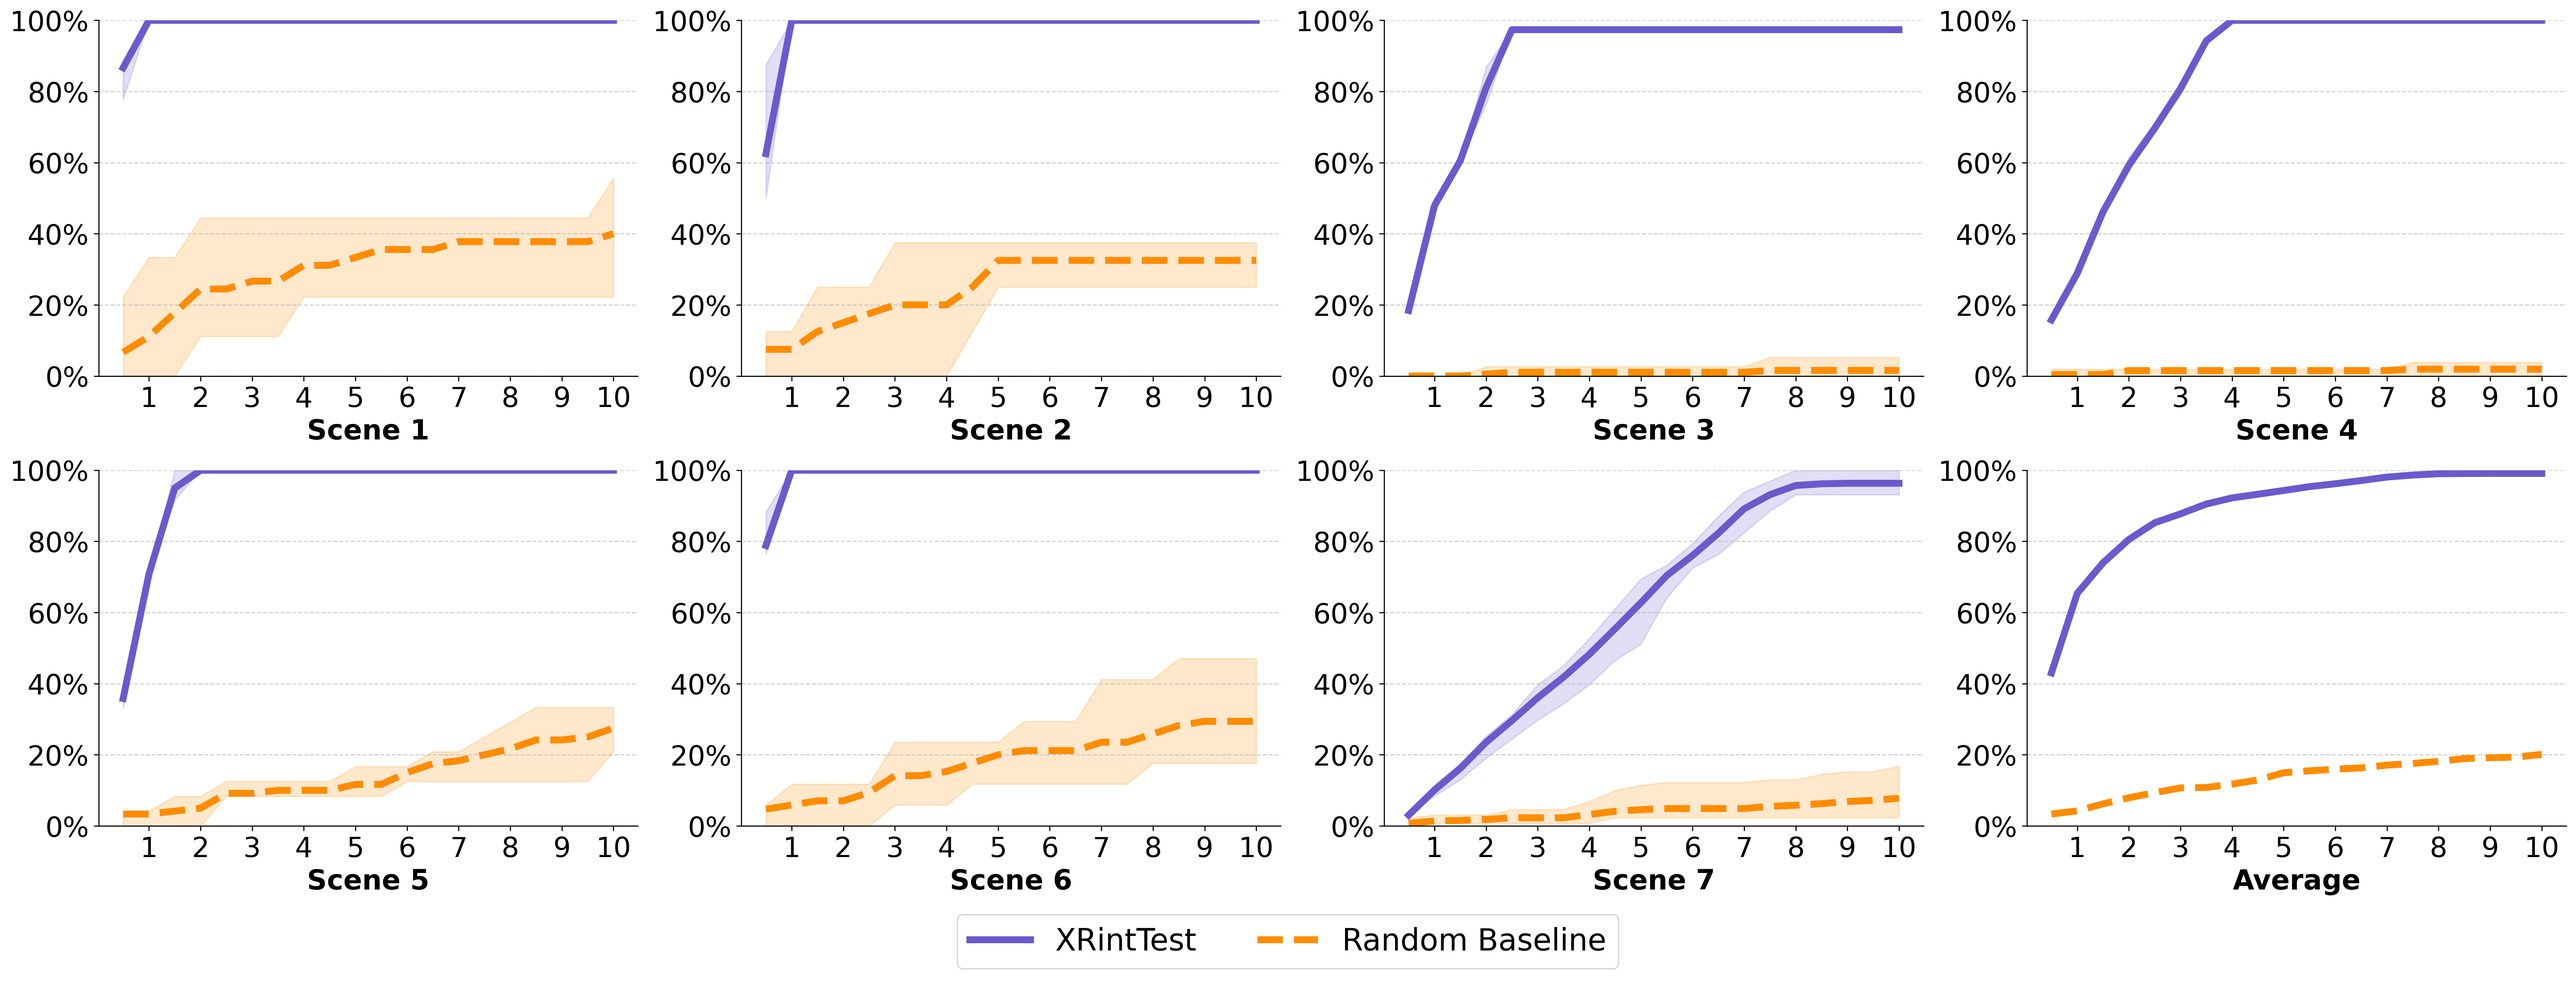
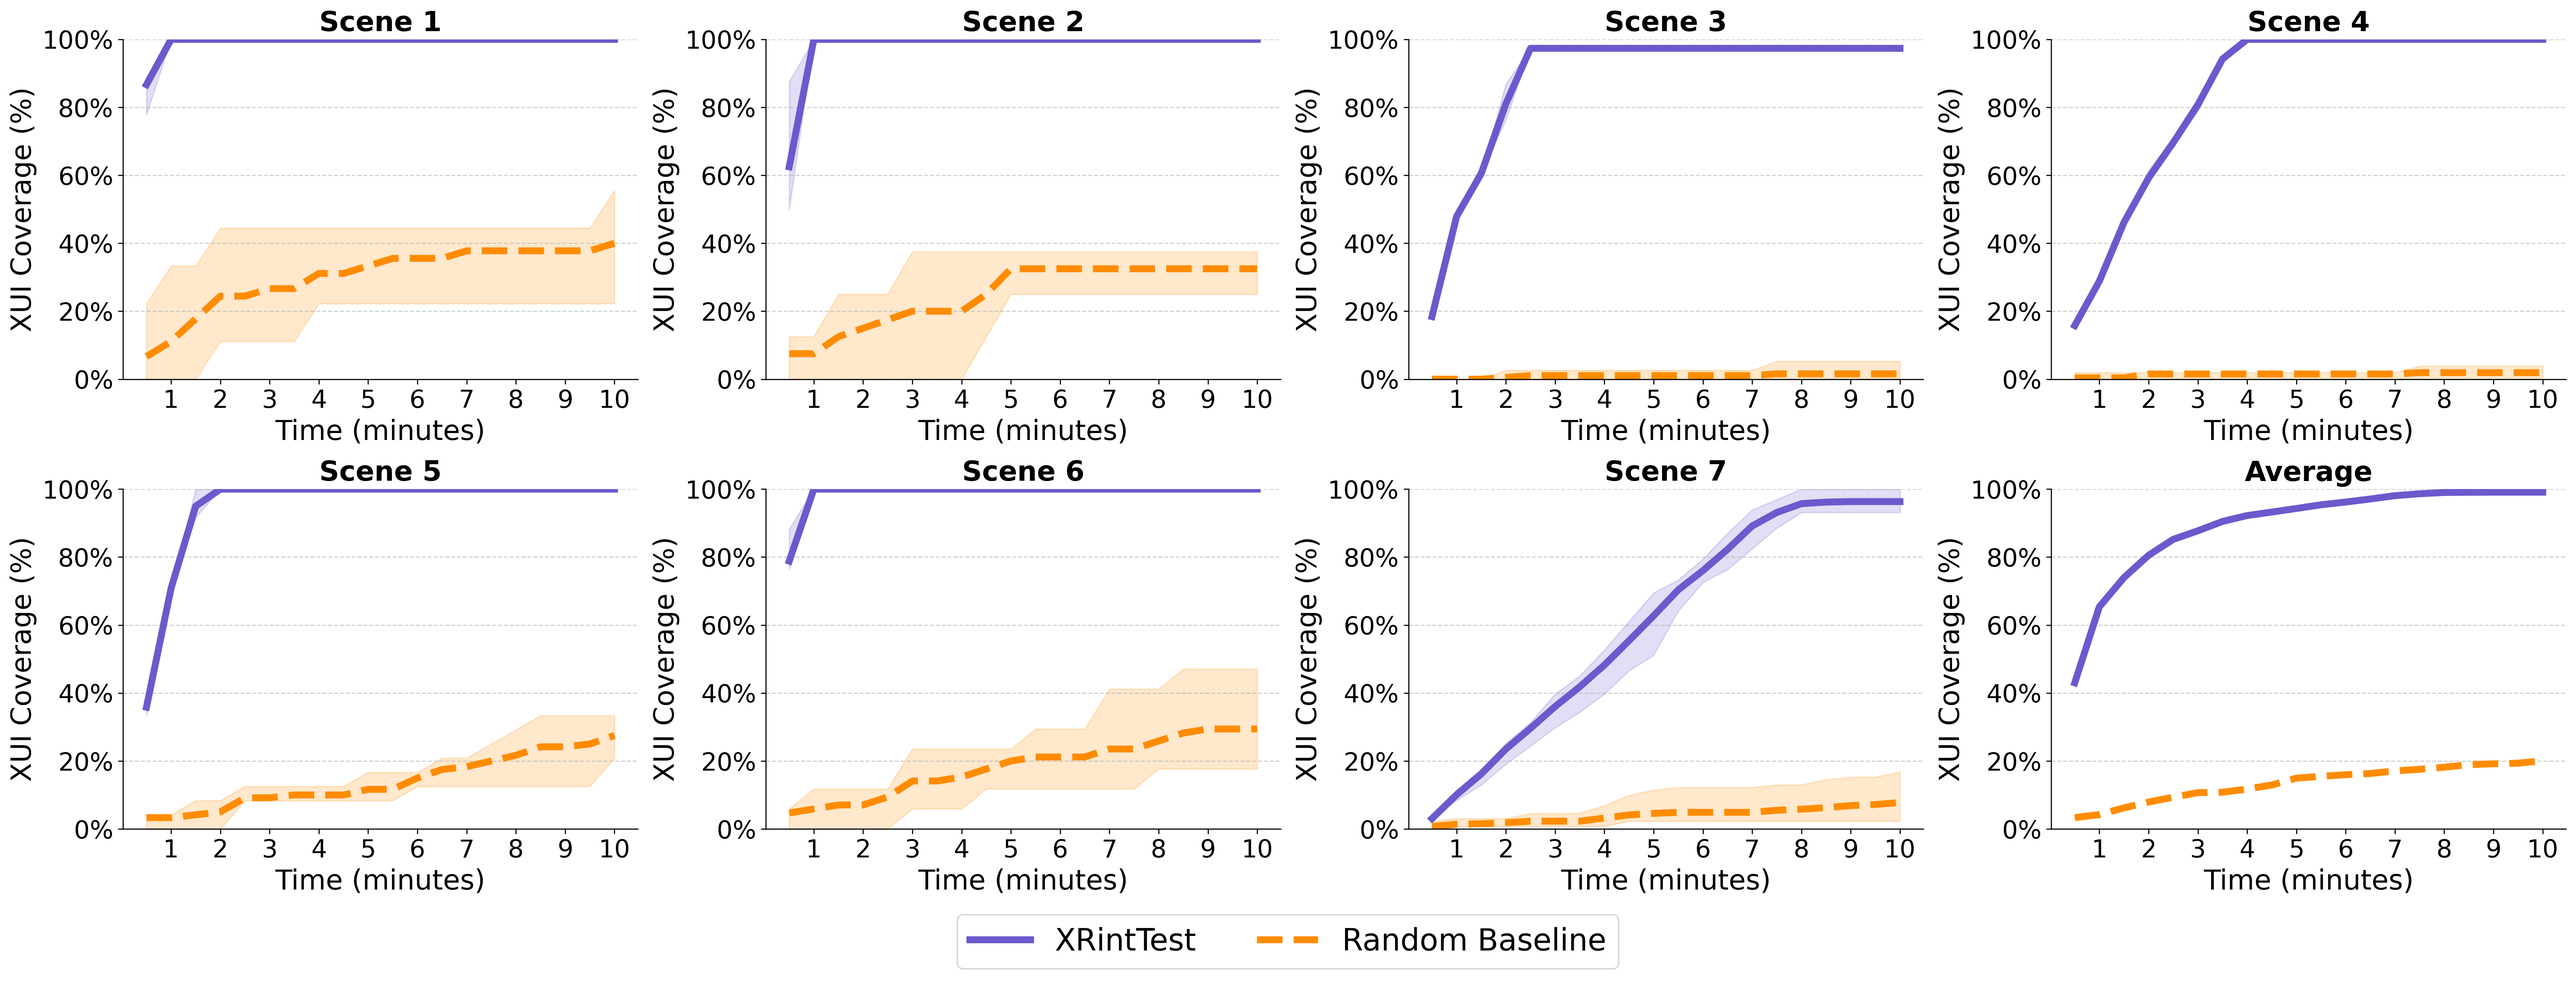
XUI graph support custom interaction types

diff --git a/VR Template/Assets/Scripts/XUIGraphGenerator.cs b/VR Template/Assets/Scripts/XUIGraphGenerator.cs
@@ -9,9 +9,16 @@ using System.Linq;
 
 public class XUIGraphGenerator : EditorWindow
 {
+    private static Dictionary<string, List<string>> interactionTypes;
+
     [MenuItem("Tools/Generate XUI Graph")]
     public static void GenerateXUIGraph()
     {
+        // Load interaction types from JSON
+        string interactionJson = Path.Combine(Application.dataPath, "Scripts/interaction.json");
+        string interactionContent = File.ReadAllText(interactionJson);
+        interactionTypes = JsonConvert.DeserializeObject<Dictionary<string, List<string>>>(interactionContent);
+        
         GameObject[] rootObjects = UnityEngine.SceneManagement.SceneManager.GetActiveScene().GetRootGameObjects();
         // Rename duplicate GameObjects before processing
         RenameDuplicateGameObjects(rootObjects);
@@ -22,39 +29,45 @@ public class XUIGraphGenerator : EditorWindow
             ProcessGameObject(rootObj, results);
         }
 
-        string json = JsonConvert.SerializeObject(results, Formatting.Indented);
+        string resultJson = JsonConvert.SerializeObject(results, Formatting.Indented);
         string path = Path.Combine(Application.dataPath, "Scripts/scene_graph.json");
-        File.WriteAllText(path, json);
+        File.WriteAllText(path, resultJson);
         Debug.Log($"Interaction results exported to {path}");
     }
 
     private static void ProcessGameObject(GameObject obj, List<Utils.InteractionEvent> results)
     {
-        // Check grab interactions
-        var grabInteractable = obj.GetComponent<XRGrabInteractable>();
-        if (grabInteractable != null)
+        foreach (var interaction_script in interactionTypes["grab"])
         {
-            var result = new Utils.InteractionEvent
+            var component = obj.GetComponent(interaction_script);
+            if (component != null)
             {
-                interactor = "XR Origin (XR Rig)",
-                condition = new List<string>(),
-                interactable = obj.name,
-                interaction_type = "grab"
-            };
-            results.Add(result);
-            // Check trigger interactions
-            var activatedEvent = grabInteractable.activated;
-            bool triggerInteraction = activatedEvent.GetPersistentEventCount() > 0;
-            if (triggerInteraction)
-            {
-                var triggerResult = new Utils.InteractionEvent
+                var result = new Utils.InteractionEvent
                 {
                     interactor = "XR Origin (XR Rig)",
-                    condition = new List<string> { "grab" },
+                    condition = new List<string>(),
                     interactable = obj.name,
-                    interaction_type = "trigger"
+                    interaction_type = "grab"
                 };
-                results.Add(triggerResult);
+                results.Add(result);
+                if (interaction_script == "XRGrabInteractable")
+                {
+                    var grabInteractable = component as XRGrabInteractable;
+                    var activatedEvent = grabInteractable.activated;
+                    bool triggerInteraction = activatedEvent.GetPersistentEventCount() > 0;
+                    if (triggerInteraction)
+                    {
+                        var triggerResult = new Utils.InteractionEvent
+                        {
+                            interactor = "XR Origin (XR Rig)",
+                            condition = new List<string> { "grab" },
+                            interactable = obj.name,
+                            interaction_type = "trigger"
+                        };
+                        results.Add(triggerResult);
+                    }
+                }
+                break;
             }
         }
 
@@ -64,21 +77,7 @@ public class XUIGraphGenerator : EditorWindow
         }
     }
 
-    private static List<string> GetComponentsList(GameObject obj)
-    {
-        Component[] components = obj.GetComponents<Component>();
-        List<string> componentNames = new List<string>();
 
-        foreach (Component component in components)
-        {
-            if (component != null)
-            {
-                componentNames.Add(component.GetType().Name);
-            }
-        }
-
-        return componentNames;
-    }
 
     // Add this method to rename duplicate GameObjects
     private static void RenameDuplicateGameObjects(GameObject[] rootObjects)

diff --git a/scripts/XUIGraphGenerator.cs b/scripts/XUIGraphGenerator.cs
@@ -9,9 +9,16 @@ using System.Linq;
 
 public class XUIGraphGenerator : EditorWindow
 {
+    private static Dictionary<string, List<string>> interactionTypes;
+
     [MenuItem("Tools/Generate XUI Graph")]
     public static void GenerateXUIGraph()
     {
+        // Load interaction types from JSON
+        string interactionJson = Path.Combine(Application.dataPath, "Scripts/interaction.json");
+        string interactionContent = File.ReadAllText(interactionJson);
+        interactionTypes = JsonConvert.DeserializeObject<Dictionary<string, List<string>>>(interactionContent);
+        
         GameObject[] rootObjects = UnityEngine.SceneManagement.SceneManager.GetActiveScene().GetRootGameObjects();
         // Rename duplicate GameObjects before processing
         RenameDuplicateGameObjects(rootObjects);
@@ -22,39 +29,45 @@ public class XUIGraphGenerator : EditorWindow
             ProcessGameObject(rootObj, results);
         }
 
-        string json = JsonConvert.SerializeObject(results, Formatting.Indented);
+        string resultJson = JsonConvert.SerializeObject(results, Formatting.Indented);
         string path = Path.Combine(Application.dataPath, "Scripts/scene_graph.json");
-        File.WriteAllText(path, json);
+        File.WriteAllText(path, resultJson);
         Debug.Log($"Interaction results exported to {path}");
     }
 
     private static void ProcessGameObject(GameObject obj, List<Utils.InteractionEvent> results)
     {
-        // Check grab interactions
-        var grabInteractable = obj.GetComponent<XRGrabInteractable>();
-        if (grabInteractable != null)
+        foreach (var interaction_script in interactionTypes["grab"])
         {
-            var result = new Utils.InteractionEvent
+            var component = obj.GetComponent(interaction_script);
+            if (component != null)
             {
-                interactor = "XR Origin (XR Rig)",
-                condition = new List<string>(),
-                interactable = obj.name,
-                interaction_type = "grab"
-            };
-            results.Add(result);
-            // Check trigger interactions
-            var activatedEvent = grabInteractable.activated;
-            bool triggerInteraction = activatedEvent.GetPersistentEventCount() > 0;
-            if (triggerInteraction)
-            {
-                var triggerResult = new Utils.InteractionEvent
+                var result = new Utils.InteractionEvent
                 {
                     interactor = "XR Origin (XR Rig)",
-                    condition = new List<string> { "grab" },
+                    condition = new List<string>(),
                     interactable = obj.name,
-                    interaction_type = "trigger"
+                    interaction_type = "grab"
                 };
-                results.Add(triggerResult);
+                results.Add(result);
+                if (interaction_script == "XRGrabInteractable")
+                {
+                    var grabInteractable = component as XRGrabInteractable;
+                    var activatedEvent = grabInteractable.activated;
+                    bool triggerInteraction = activatedEvent.GetPersistentEventCount() > 0;
+                    if (triggerInteraction)
+                    {
+                        var triggerResult = new Utils.InteractionEvent
+                        {
+                            interactor = "XR Origin (XR Rig)",
+                            condition = new List<string> { "grab" },
+                            interactable = obj.name,
+                            interaction_type = "trigger"
+                        };
+                        results.Add(triggerResult);
+                    }
+                }
+                break;
             }
         }
 
@@ -64,21 +77,7 @@ public class XUIGraphGenerator : EditorWindow
         }
     }
 
-    private static List<string> GetComponentsList(GameObject obj)
-    {
-        Component[] components = obj.GetComponents<Component>();
-        List<string> componentNames = new List<string>();
 
-        foreach (Component component in components)
-        {
-            if (component != null)
-            {
-                componentNames.Add(component.GetType().Name);
-            }
-        }
-
-        return componentNames;
-    }
 
     // Add this method to rename duplicate GameObjects
     private static void RenameDuplicateGameObjects(GameObject[] rootObjects)

diff --git a/evaluation/analysis.py b/evaluation/analysis.py
@@ -64,17 +64,16 @@ for idx, target_scene in enumerate(scenes[:8]):
     ax.yaxis.set_major_formatter(PercentFormatter())
 
     ax.set_xticks(time_points)
-    # ax.set_xticklabels(labels, fontsize=28, fontweight='bold')
-    ax.set_xticklabels(labels, fontsize=20)
-    ax.tick_params(axis='y', labelsize=20)
-    # for label in ax.get_yticklabels():
-    #     label.set_fontweight('bold')
+    ax.set_xticklabels(labels, fontsize=18)
+    ax.tick_params(axis='y', labelsize=18)
 
     ax.grid(axis='y', linestyle='--', alpha=0.6)
     ax.spines['top'].set_visible(False)
     ax.spines['right'].set_visible(False)
 
-    ax.set_xlabel(x_labels[idx], fontsize=20, fontweight='bold')
+    ax.set_title(x_labels[idx], fontsize=20, fontweight='bold')
+    ax.set_xlabel('Time (minutes)', fontsize=20)
+    ax.set_ylabel('XUI Coverage (%)', fontsize=20)
 
 # Hide any unused subplots
 for j in range(len(scenes), 8):
